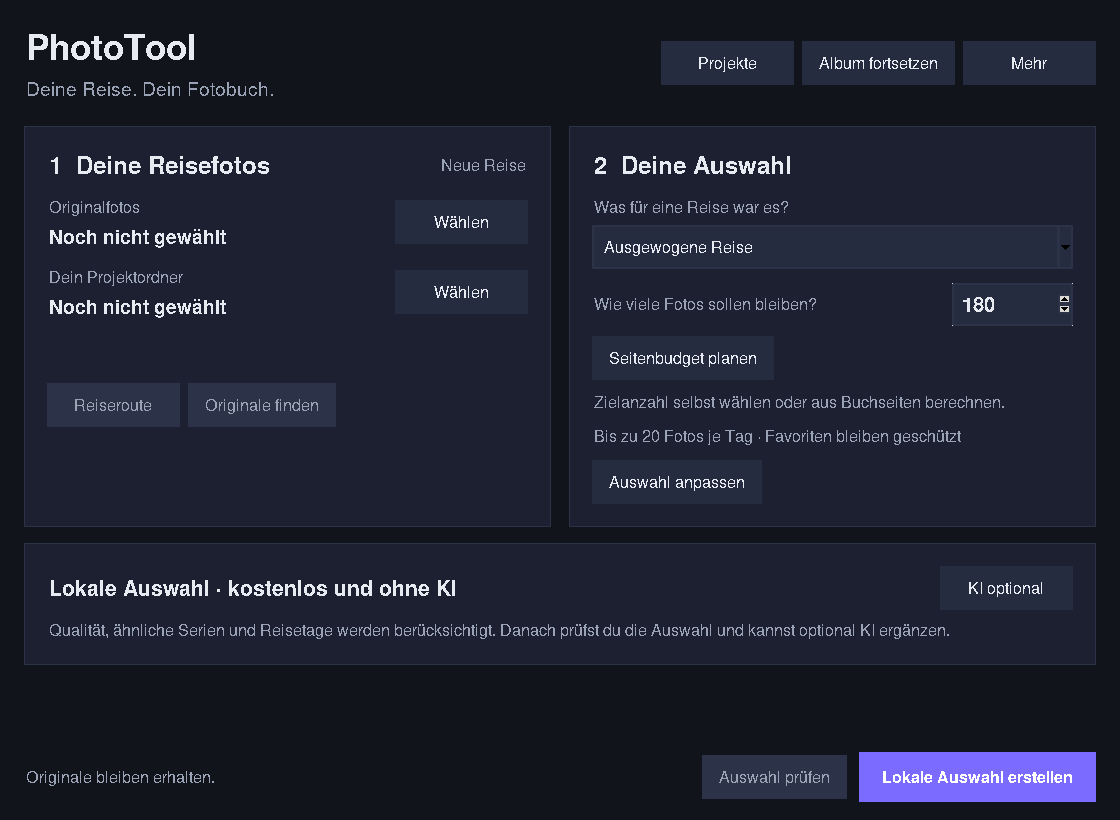
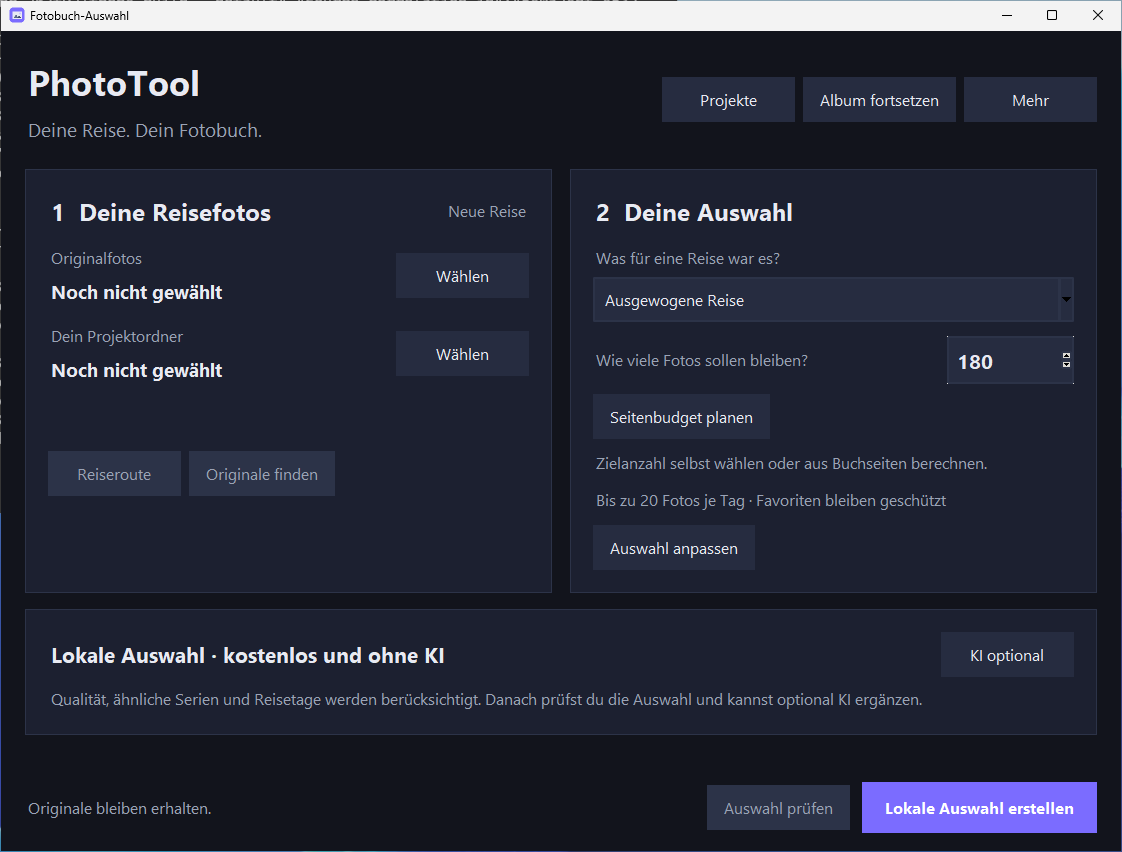
Document verified native Windows layouts at regular and maximized sizes

diff --git a/REISEPROJEKTE.md b/REISEPROJEKTE.md
@@ -4,6 +4,9 @@ PhotoTool reduziert eine Fotosammlung für ein Fotobuch. Das endgültige Layout
 entsteht anschliessend in deiner Fotobuchsoftware. Alle Funktionen sind für
 beliebige Reisen gedacht, nicht speziell für Japan.
 
+Die folgenden Ansichten wurden in der laufenden Windows-App aufgenommen.
+[Maximierte Ansicht bei 1920 × 1080](docs/screenshots/phototool-0.4.1-windows-maximized.png).
+
 ![Projekt und Album planen](docs/screenshots/phototool-0.4.1-main.png)
 
 ![Album prüfen](docs/screenshots/phototool-0.4-review.png)
